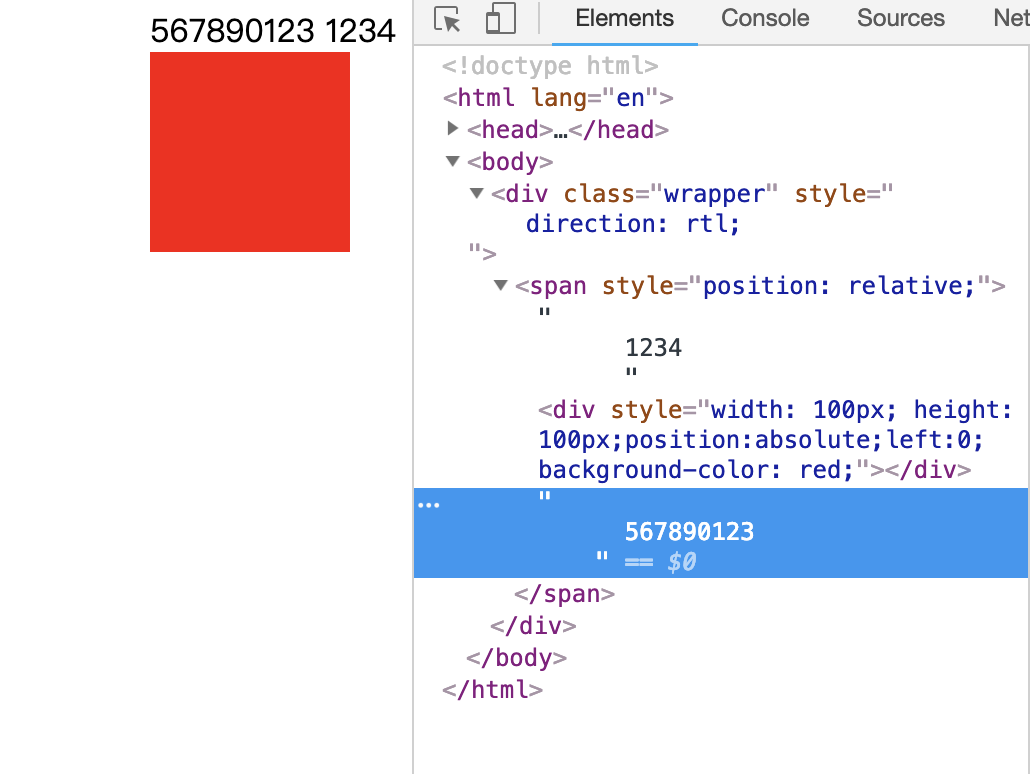
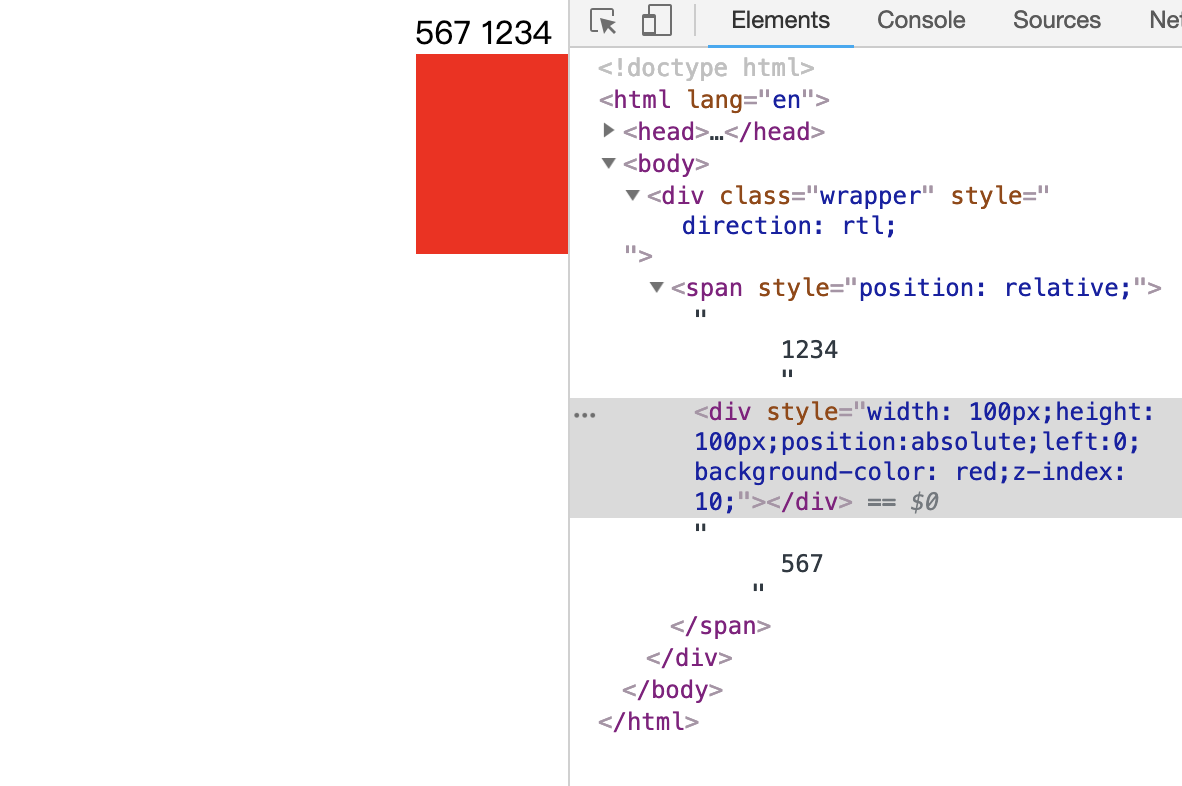
feat: add css 层叠上下文

Changed region(s): [[0.1243, 0.0, 1.0, 1.0], [0.5903, 0.4341, 0.7146, 0.4651]]

diff --git a/others/面试题/前端面试题-css篇.md b/others/面试题/前端面试题-css篇.md
@@ -13,7 +13,8 @@
 ---
 延伸问题如下：  
 
-### `position:absolute`后`z-index`的例子，如下，问题C、D谁会覆盖谁？
+### `position:absolute`是怎么计算位置的，如果是在行内元素包裹下会怎样？（包含块）
+### `position:absolute`后`z-index`的例子，如下，问题B、D谁会覆盖谁？（层叠上下文）
 
 ```html
 <style>
@@ -39,6 +40,14 @@
   <div style="position: absolute;z-index: 101;" class="D"></div>
 </div>
 ```
+
+解析：  
+根据层叠上下文的几个计算规则：  
+1. 当`z-index`不为`auto`时，会创建层叠上下文，优先从最高层（顶层`z-index`不为`auto`的父元素）相比较
+2. 当`z-index`相等时，后出现的在先出现的上面
+3. 当`z-index`不等时，谁大谁在上面  
+
+因此，BCD创建了层叠上下文，通过1知道，需要BC相比较，所以B会盖住D。
 
 ## display的取值和具体含义
 
